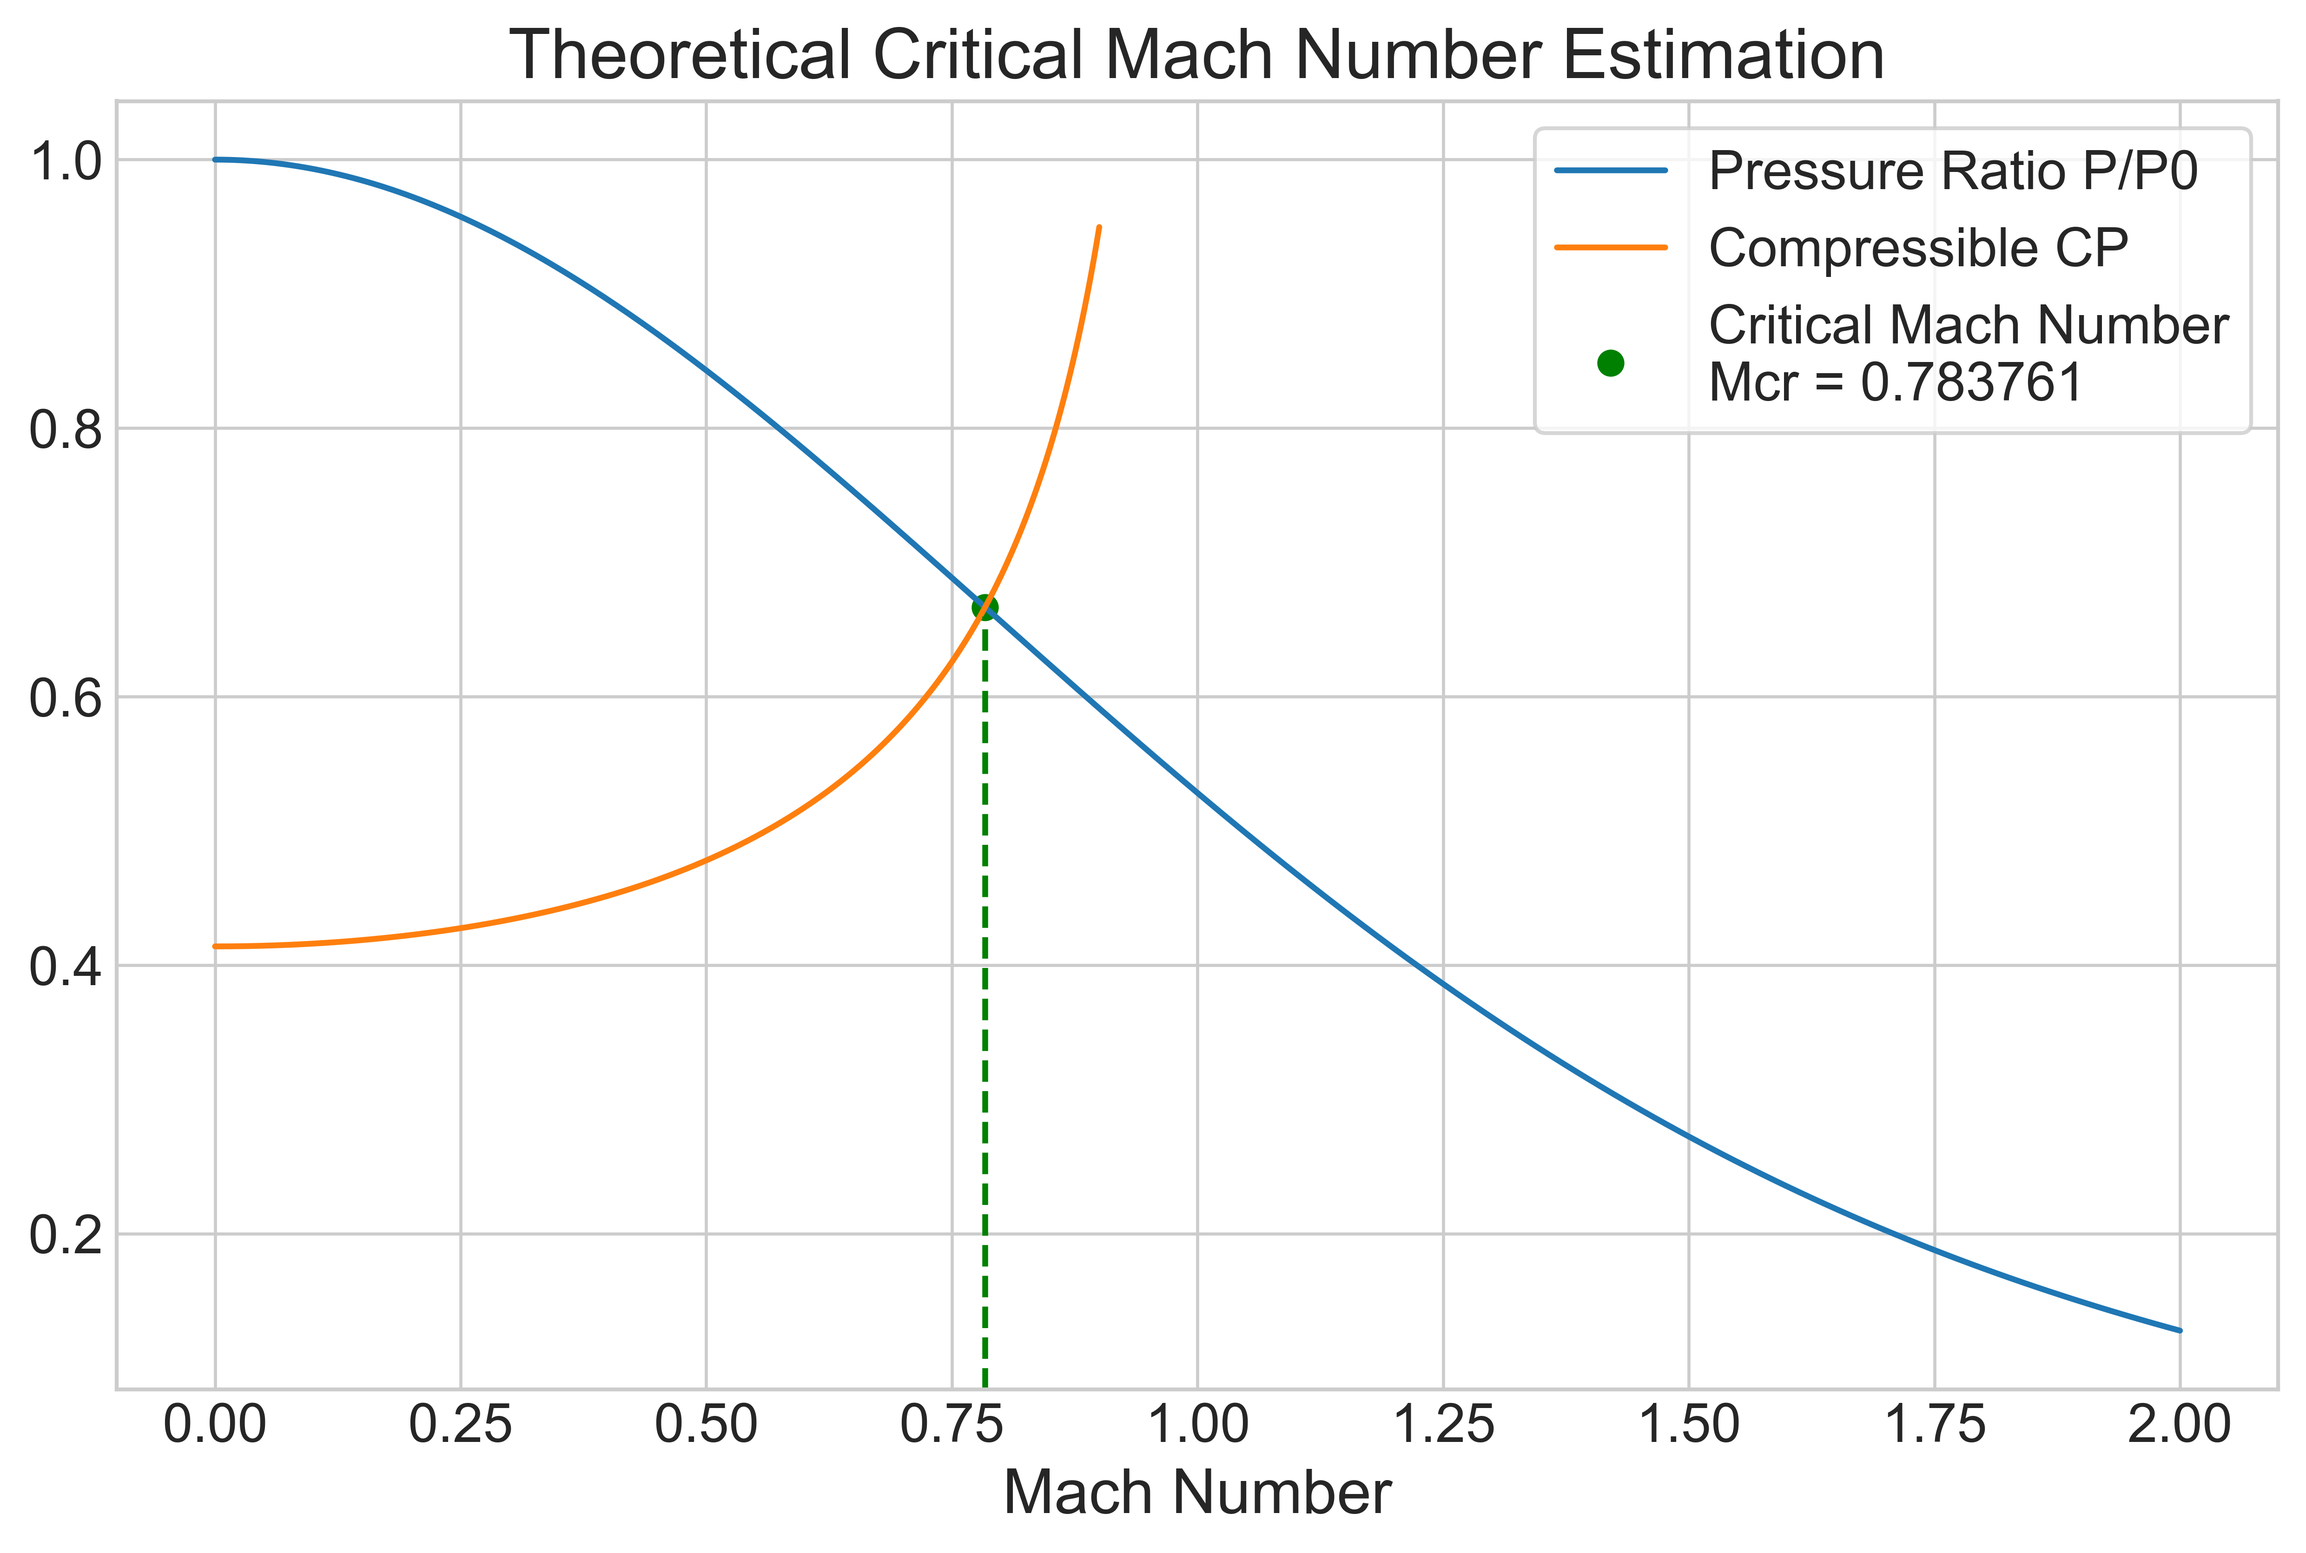
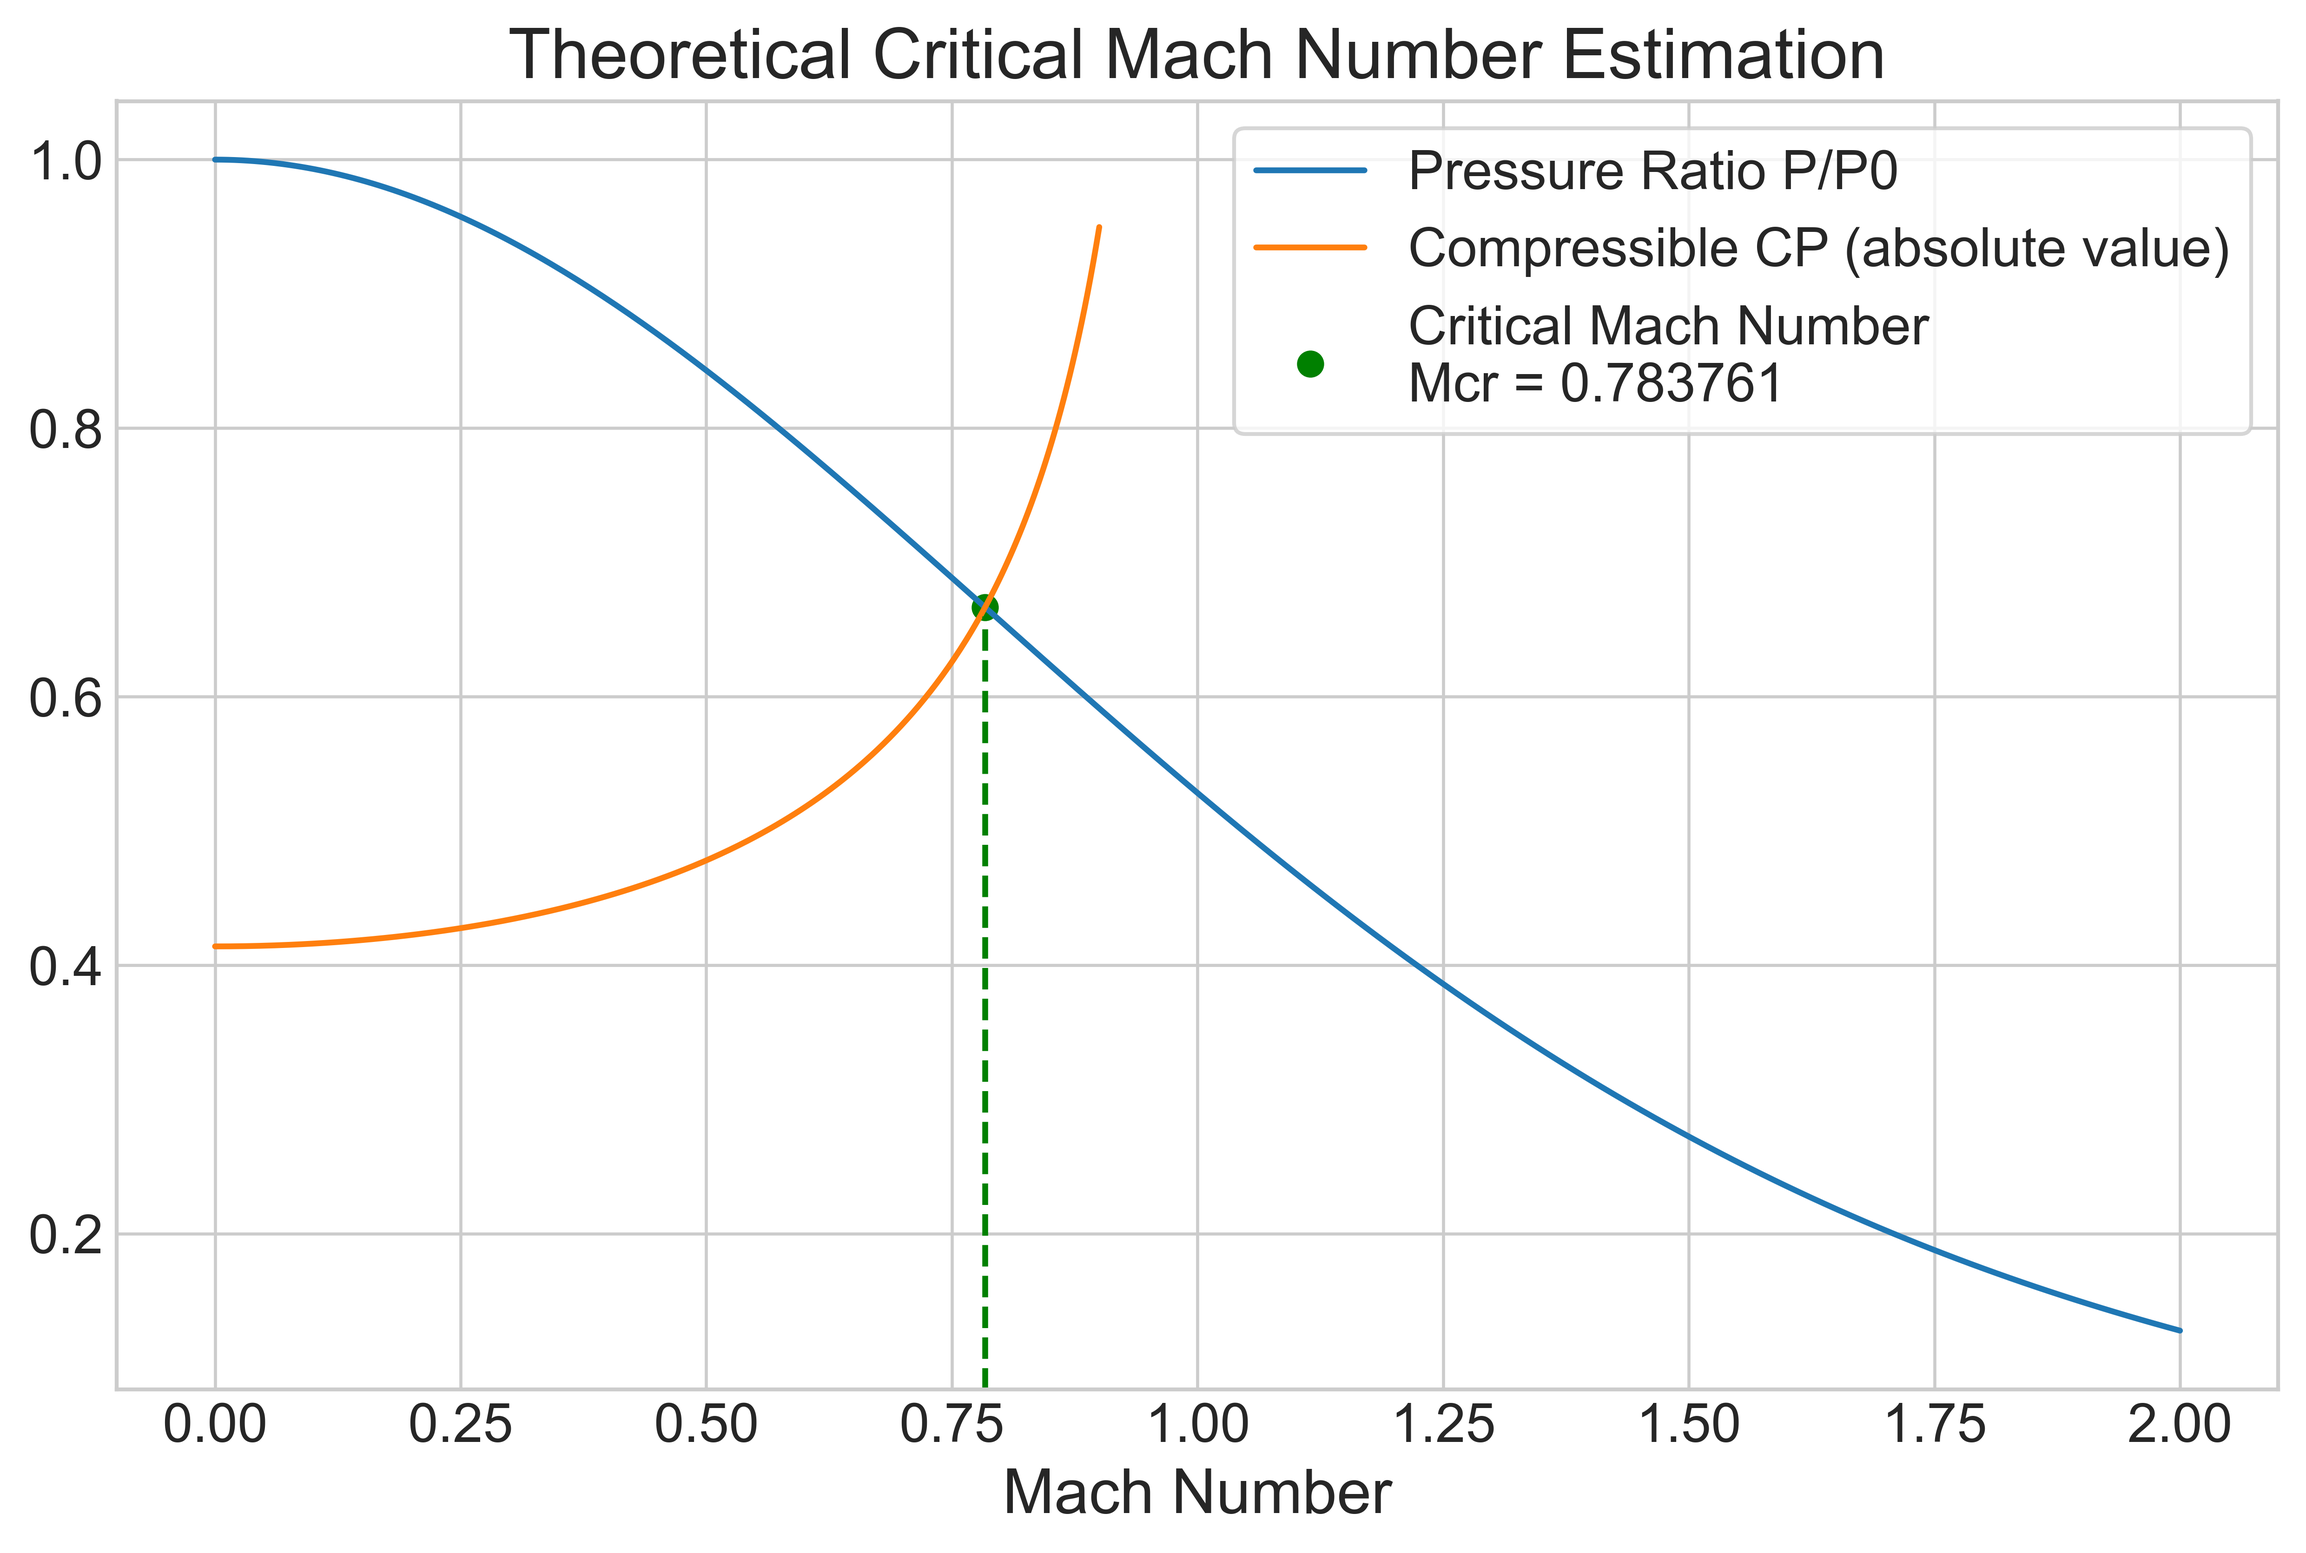
made FINAL CHANGES

Changed region(s): [[0.5311, 0.0934, 0.9686, 0.2801], [0.5311, 0.1556, 0.5936, 0.1867]]

diff --git a/Exp 10/code.py b/Exp 10/code.py
@@ -25,6 +25,8 @@ print(P0)
 full_data = conv(full_data)
 legend_lis = [20, 25, 30, 35, 40]
 
+print(*M(full_data), sep='\n')
+
 
 plt.style.use('seaborn-v0_8-whitegrid')  # clean modern style
 
@@ -81,7 +83,7 @@ y2 = pg(Cp_inc, x2)
 plt.figure(figsize=(10,6))
 plt.xlabel("Mach Number")
 plt.plot(x1,y1, label='Pressure Ratio P/P0')
-plt.plot(x2,np.abs(y2), label='Compressible CP')
+plt.plot(x2,np.abs(y2), label='Compressible CP (absolute value)')
 plt.axvline(x=0.783761, ymax=(0.6), linestyle='--', color='green')
 plt.scatter([0.783761], [0.6666], color='green', marker='o', label=f'Critical Mach Number\nMcr = 0.783761')
 plt.legend(frameon=True)
